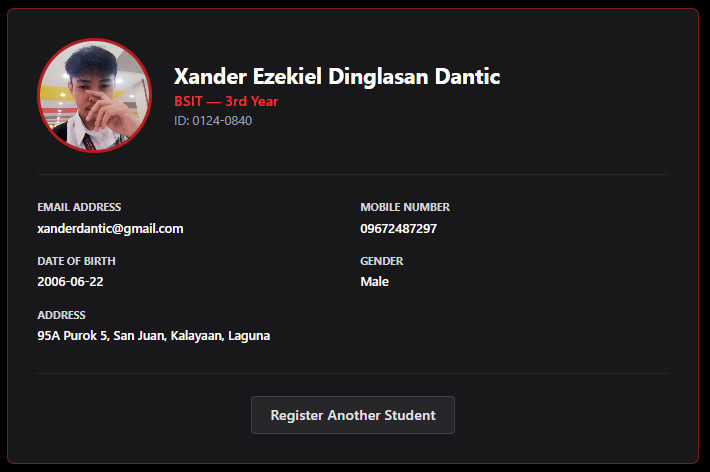
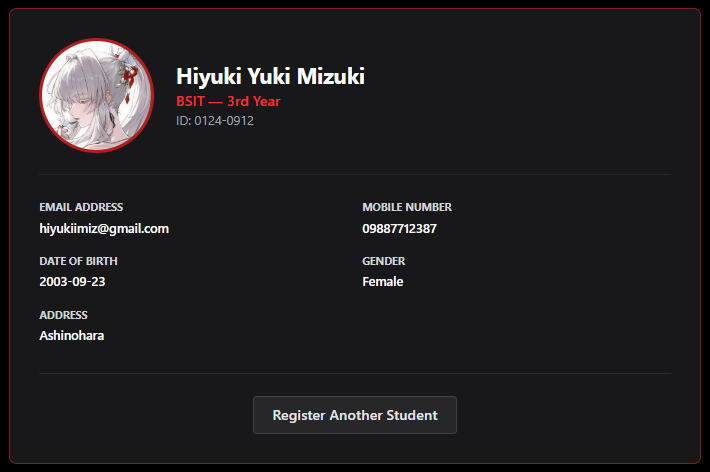
readme update screenshots

diff --git a/README.md b/README.md
@@ -117,10 +117,10 @@ Server-side validation guarantees that only reliable, sanitized, and properly fo
 | :--- | :---: |
 | **Registration Form** | ![Registration Form](screenshots/01_registration_form.png) |
 | **Validation Errors** | ![Validation Errors](screenshots/02_validation_errors.png) |
-| **Successful Registration** | ![Successful Registration](screenshots/03_successful_registration.png) |
+| **Successful Registration** | ![Successful Registration](screenshots/03_successful.png) |
 | **Flash Message** | ![Flash Message](screenshots/04_flash_message.png) |
-| **Uploaded Profile Picture** | ![Uploaded Profile Picture](screenshots/05_uploaded_image.png) |
-| **Database Table** | ![Database Table](screenshots/06_database_table.png) |
+| **Uploaded Profile Picture** | ![Uploaded Profile Picture](screenshots/05_uploaded.png) |
+| **Database Table** | ![Database Table](screenshots/06_database.png) |
 | **Student Profile Page** | ![Student Profile Page](screenshots/07_profile.png) |
 | **VS Code Project Structure** | ![VS Code](screenshots/08_project_structure.png) |
 | **GitHub Repository** | ![Repository](screenshots/09_github_repository.png) |
